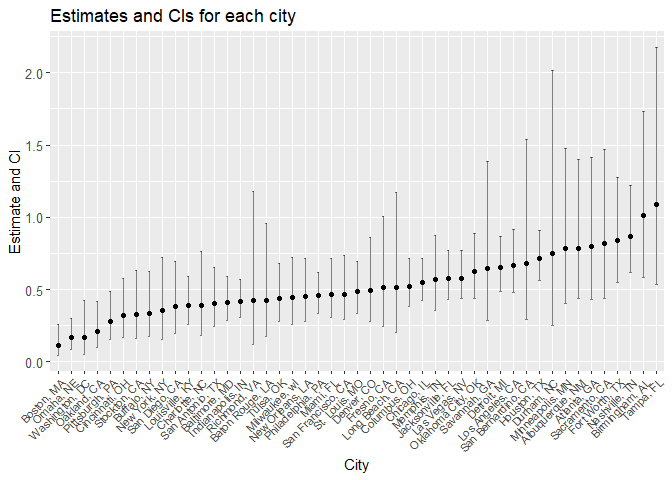
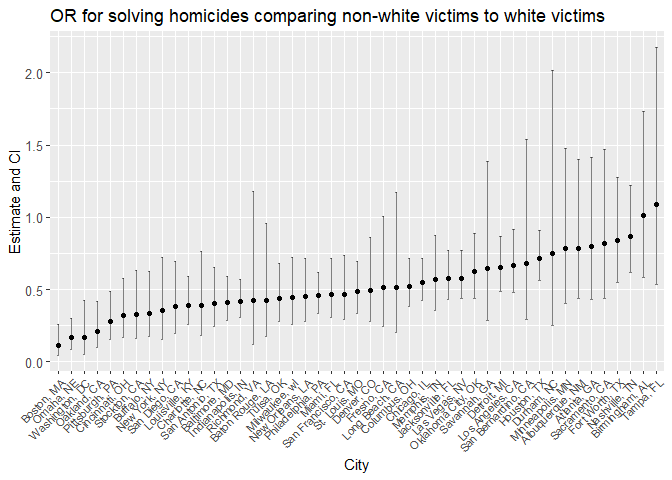
comments added and plot modified

Changed region(s): [[0.0625, 0.0, 0.9062, 0.0625]]

diff --git a/p8105_hw6_rj2543.md b/p8105_hw6_rj2543.md
@@ -10,7 +10,7 @@ The Washington Post has gathered data on homicides in 50 large U.S. cities and m
 
 ``` r
 homicide = read_csv("./data/homicide-data.csv") %>% 
-  janitor::clean_names()
+  janitor::clean_names() 
 ```
 
     ## Parsed with column specification:
@@ -86,7 +86,7 @@ For the city of Baltimore, MD, use the glm function to fit a logistic regression
 baltimore = homi %>% 
   filter(city_state == "Baltimore, MD")
 
-reg_baltimore = glm(solved~victim_age+victim_sex+victim_race, family = binomial(link = "logit"), data = baltimore)
+reg_baltimore = glm(solved~victim_age+victim_sex+victim_race, family = binomial(link = "logit"), data = baltimore) 
 
 OR_CI = rbind(exp(confint(reg_baltimore, "victim_racenon-white")))
 ```
@@ -98,13 +98,13 @@ reg_baltimore %>%
   broom::tidy() %>% 
   filter(term == "victim_racenon-white") %>% 
   mutate(OR_estimate = exp(estimate), OR_CI_low = OR_CI[1], OR_CI_up = OR_CI[2]) %>%
-  select(term, logOR_estimate = estimate, OR_estimate, OR_CI_low, OR_CI_up, p.value)
+  select(term, OR_estimate, OR_CI_low, OR_CI_up) %>% 
+  knitr::kable(digits = 5)
 ```
 
-    ## # A tibble: 1 x 6
-    ##   term             logOR_estimate OR_estimate OR_CI_low OR_CI_up   p.value
-    ##   <chr>                     <dbl>       <dbl>     <dbl>    <dbl>     <dbl>
-    ## 1 victim_racenon-~         -0.882       0.414     0.289    0.587   9.80e-7
+| term                  |  OR\_estimate|  OR\_CI\_low|  OR\_CI\_up|
+|:----------------------|-------------:|------------:|-----------:|
+| victim\_racenon-white |       0.41389|      0.28929|     0.58708|
 
 ``` r
 #baltimore %>% 
@@ -205,7 +205,7 @@ OR_CI_city %>%
   geom_point() +
   geom_errorbar(aes(x = city_state, ymin = OR_CI_low, ymax = OR_CI_up), width = 0.2, alpha = 0.5) + # add error bars based on upper and lower limits of CI for each city
   labs(
-    title = "Estimates and CIs for each city",
+    title = "OR for solving homicides comparing non-white victims to white victims",
     x = "City",
     y = "Estimate and CI"
   ) +
@@ -214,6 +214,8 @@ OR_CI_city %>%
 ```
 
 ![](p8105_hw6_rj2543_files/figure-markdown_github/plot-1.png)
+
+**Comments** From the plot, we can see that estimates of adjusted OR range from about 0.1 to round 1.1. Most of estimates are under 1 (about 3/4 cities with estimates between 0.25 and 0.75) showing that homicides with non-white victims tend to be unsolved compared to those with white victims. Richmond, Savannah, San Bernardino, Durham, Birmingham and Tampa have significantly wider CIs than other cities.
 
 Problem 2
 =========
@@ -314,52 +316,6 @@ birthweight %>%
 ``` r
 reg = lm(bwt~., data = birthweight)
 
-summary(reg)
-```
-
-    ## 
-    ## Call:
-    ## lm(formula = bwt ~ ., data = birthweight)
-    ## 
-    ## Residuals:
-    ##      Min       1Q   Median       3Q      Max 
-    ## -1097.68  -184.86    -3.33   173.09  2344.15 
-    ## 
-    ## Coefficients: (3 not defined because of singularities)
-    ##               Estimate Std. Error t value Pr(>|t|)    
-    ## (Intercept) -6265.3914   660.4011  -9.487  < 2e-16 ***
-    ## babysex2       28.7073     8.4652   3.391 0.000702 ***
-    ## bhead         130.7781     3.4523  37.881  < 2e-16 ***
-    ## blength        74.9536     2.0217  37.075  < 2e-16 ***
-    ## delwt           4.1007     0.3948  10.386  < 2e-16 ***
-    ## fincome         0.2898     0.1795   1.614 0.106551    
-    ## frace2         14.3313    46.1501   0.311 0.756168    
-    ## frace3         21.2361    69.2960   0.306 0.759273    
-    ## frace4        -46.9962    44.6782  -1.052 0.292912    
-    ## frace8          4.2969    74.0741   0.058 0.953745    
-    ## gaweeks        11.5494     1.4654   7.882 4.06e-15 ***
-    ## malform1        9.7650    70.6259   0.138 0.890039    
-    ## menarche       -3.5508     2.8951  -1.226 0.220083    
-    ## mheight         9.7874    10.3116   0.949 0.342588    
-    ## momage          0.7593     1.2221   0.621 0.534418    
-    ## mrace2       -151.4354    46.0453  -3.289 0.001014 ** 
-    ## mrace3        -91.3866    71.9190  -1.271 0.203908    
-    ## mrace4        -56.4787    45.1369  -1.251 0.210901    
-    ## parity         95.5411    40.4793   2.360 0.018307 *  
-    ## pnumlbw             NA         NA      NA       NA    
-    ## pnumsga             NA         NA      NA       NA    
-    ## ppbmi           4.3538    14.8913   0.292 0.770017    
-    ## ppwt           -3.4716     2.6121  -1.329 0.183913    
-    ## smoken         -4.8544     0.5871  -8.269  < 2e-16 ***
-    ## wtgain              NA         NA      NA       NA    
-    ## ---
-    ## Signif. codes:  0 '***' 0.001 '**' 0.01 '*' 0.05 '.' 0.1 ' ' 1
-    ## 
-    ## Residual standard error: 272.5 on 4320 degrees of freedom
-    ## Multiple R-squared:  0.7183, Adjusted R-squared:  0.717 
-    ## F-statistic: 524.6 on 21 and 4320 DF,  p-value: < 2.2e-16
-
-``` r
 reg_stepwise = step(reg, direction = "both")
 ```
 
@@ -605,6 +561,8 @@ birthweight %>%
 
 ![](p8105_hw6_rj2543_files/figure-markdown_github/regression-2.png)
 
+**Modeling Process** First, from the bwt distribution plot, we can see that the underlying distribution tends to be a bell-shaped and slightly skewed one. Transformation of bwt seems unnecessary at this point. Then, we try to fit the model with no interaction terms using "stepwise" model selection methods. By only taking predictors with significantly small p-value into consideration, we come to the model with babysex, bhead, blength, delwt, gaweeks, mheight, mrace, ppwt and smoken predictors. The adjusted R-square of this model is about 0.7173 which looks fair at this time. The plot of model residuals against fitted values shows that the assumption of the model seems satisfied as well. However, it may be better to include the interaction effects in further study.
+
 Compare your model to two others:
 
 -   One using length at birth and gestational age as predictors (main effects only)
@@ -647,27 +605,7 @@ reg1 %>%
     ## 2 blength        129.       1.99      64.6 0.      
     ## 3 gaweeks         27.0      1.72      15.7 2.36e-54
 
-``` r
-cv_df = crossv_mc(birthweight, 100) %>% 
-  mutate(reg_mod = map(train, ~lm(bwt~babysex+bhead+blength+delwt+gaweeks+mheight+mrace+ppwt+smoken, data = .x)),
-         reg1_mod = map(train, ~lm(bwt~blength+gaweeks, data = .x))) %>% 
-  mutate(rmse_reg = map2_dbl(reg_mod, test, ~rmse(model = .x, data = .y)),
-         rmse_reg1 = map2_dbl(reg1_mod, test, ~rmse(model = .x, data = .y)))
-
-cv_df %>% 
-  select(rmse_reg, rmse_reg1) %>%  
-  gather(key = model, value = rmse) %>% 
-  mutate(model = str_replace(model, "rmse_", ""),
-         model = fct_inorder(model)) %>% 
-  ggplot(aes(x = model, y = rmse)) + 
-  geom_violin()
-```
-
-![](p8105_hw6_rj2543_files/figure-markdown_github/blength%20and%20gaweeks-1.png)
-
 -   One using head circumference, length, sex, and all interactions (including the three-way interaction) between these.
-
-Make this comparison in terms of the cross-validated prediction error; use crossv\_mc and functions in purrr as appropriate.
 
 ``` r
 reg2 = lm(bwt~bhead*blength*babysex, data = birthweight)
@@ -717,15 +655,19 @@ reg2 %>%
     ## 7 blength:babysex2        -124.       35.1      -3.52  0.000429    
     ## 8 bhead:blength:babysex2     3.88      1.06      3.67  0.000245
 
+Make this comparison in terms of the cross-validated prediction error; use crossv\_mc and functions in purrr as appropriate.
+
 ``` r
 cv_df = crossv_mc(birthweight, 100) %>% 
   mutate(reg_mod = map(train, ~lm(bwt~babysex+bhead+blength+delwt+gaweeks+mheight+mrace+ppwt+smoken, data = .x)),
+         reg1_mod = map(train, ~lm(bwt~blength+gaweeks, data = .x)),
          reg2_mod = map(train, ~lm(bwt~bhead*blength*babysex, data = .x))) %>% 
   mutate(rmse_reg = map2_dbl(reg_mod, test, ~rmse(model = .x, data = .y)),
+         rmse_reg1 = map2_dbl(reg1_mod, test, ~rmse(model = .x, data = .y)),
          rmse_reg2 = map2_dbl(reg2_mod, test, ~rmse(model = .x, data = .y)))
 
 cv_df %>% 
-  select(rmse_reg, rmse_reg2) %>%  
+  select(rmse_reg, rmse_reg1, rmse_reg2) %>%  
   gather(key = model, value = rmse) %>% 
   mutate(model = str_replace(model, "rmse_", ""),
          model = fct_inorder(model)) %>% 
@@ -733,6 +675,8 @@ cv_df %>%
   geom_violin()
 ```
 
-![](p8105_hw6_rj2543_files/figure-markdown_github/unnamed-chunk-1-1.png)
+![](p8105_hw6_rj2543_files/figure-markdown_github/comparison-1.png)
 
-Note that although we expect your model to be reasonable, model building itself is not a main idea of the course and we don’t necessarily expect your model to be “optimal”.
+**Comparison** By plotting the cross-validated prediction error distribution for each candidate model, we can see that the first fitted model has the least mean rmse compared to two others. Also, the variance of the first model is no larger than others.
+
+(Note that although we expect your model to be reasonable, model building itself is not a main idea of the course and we don’t necessarily expect your model to be “optimal”.)
